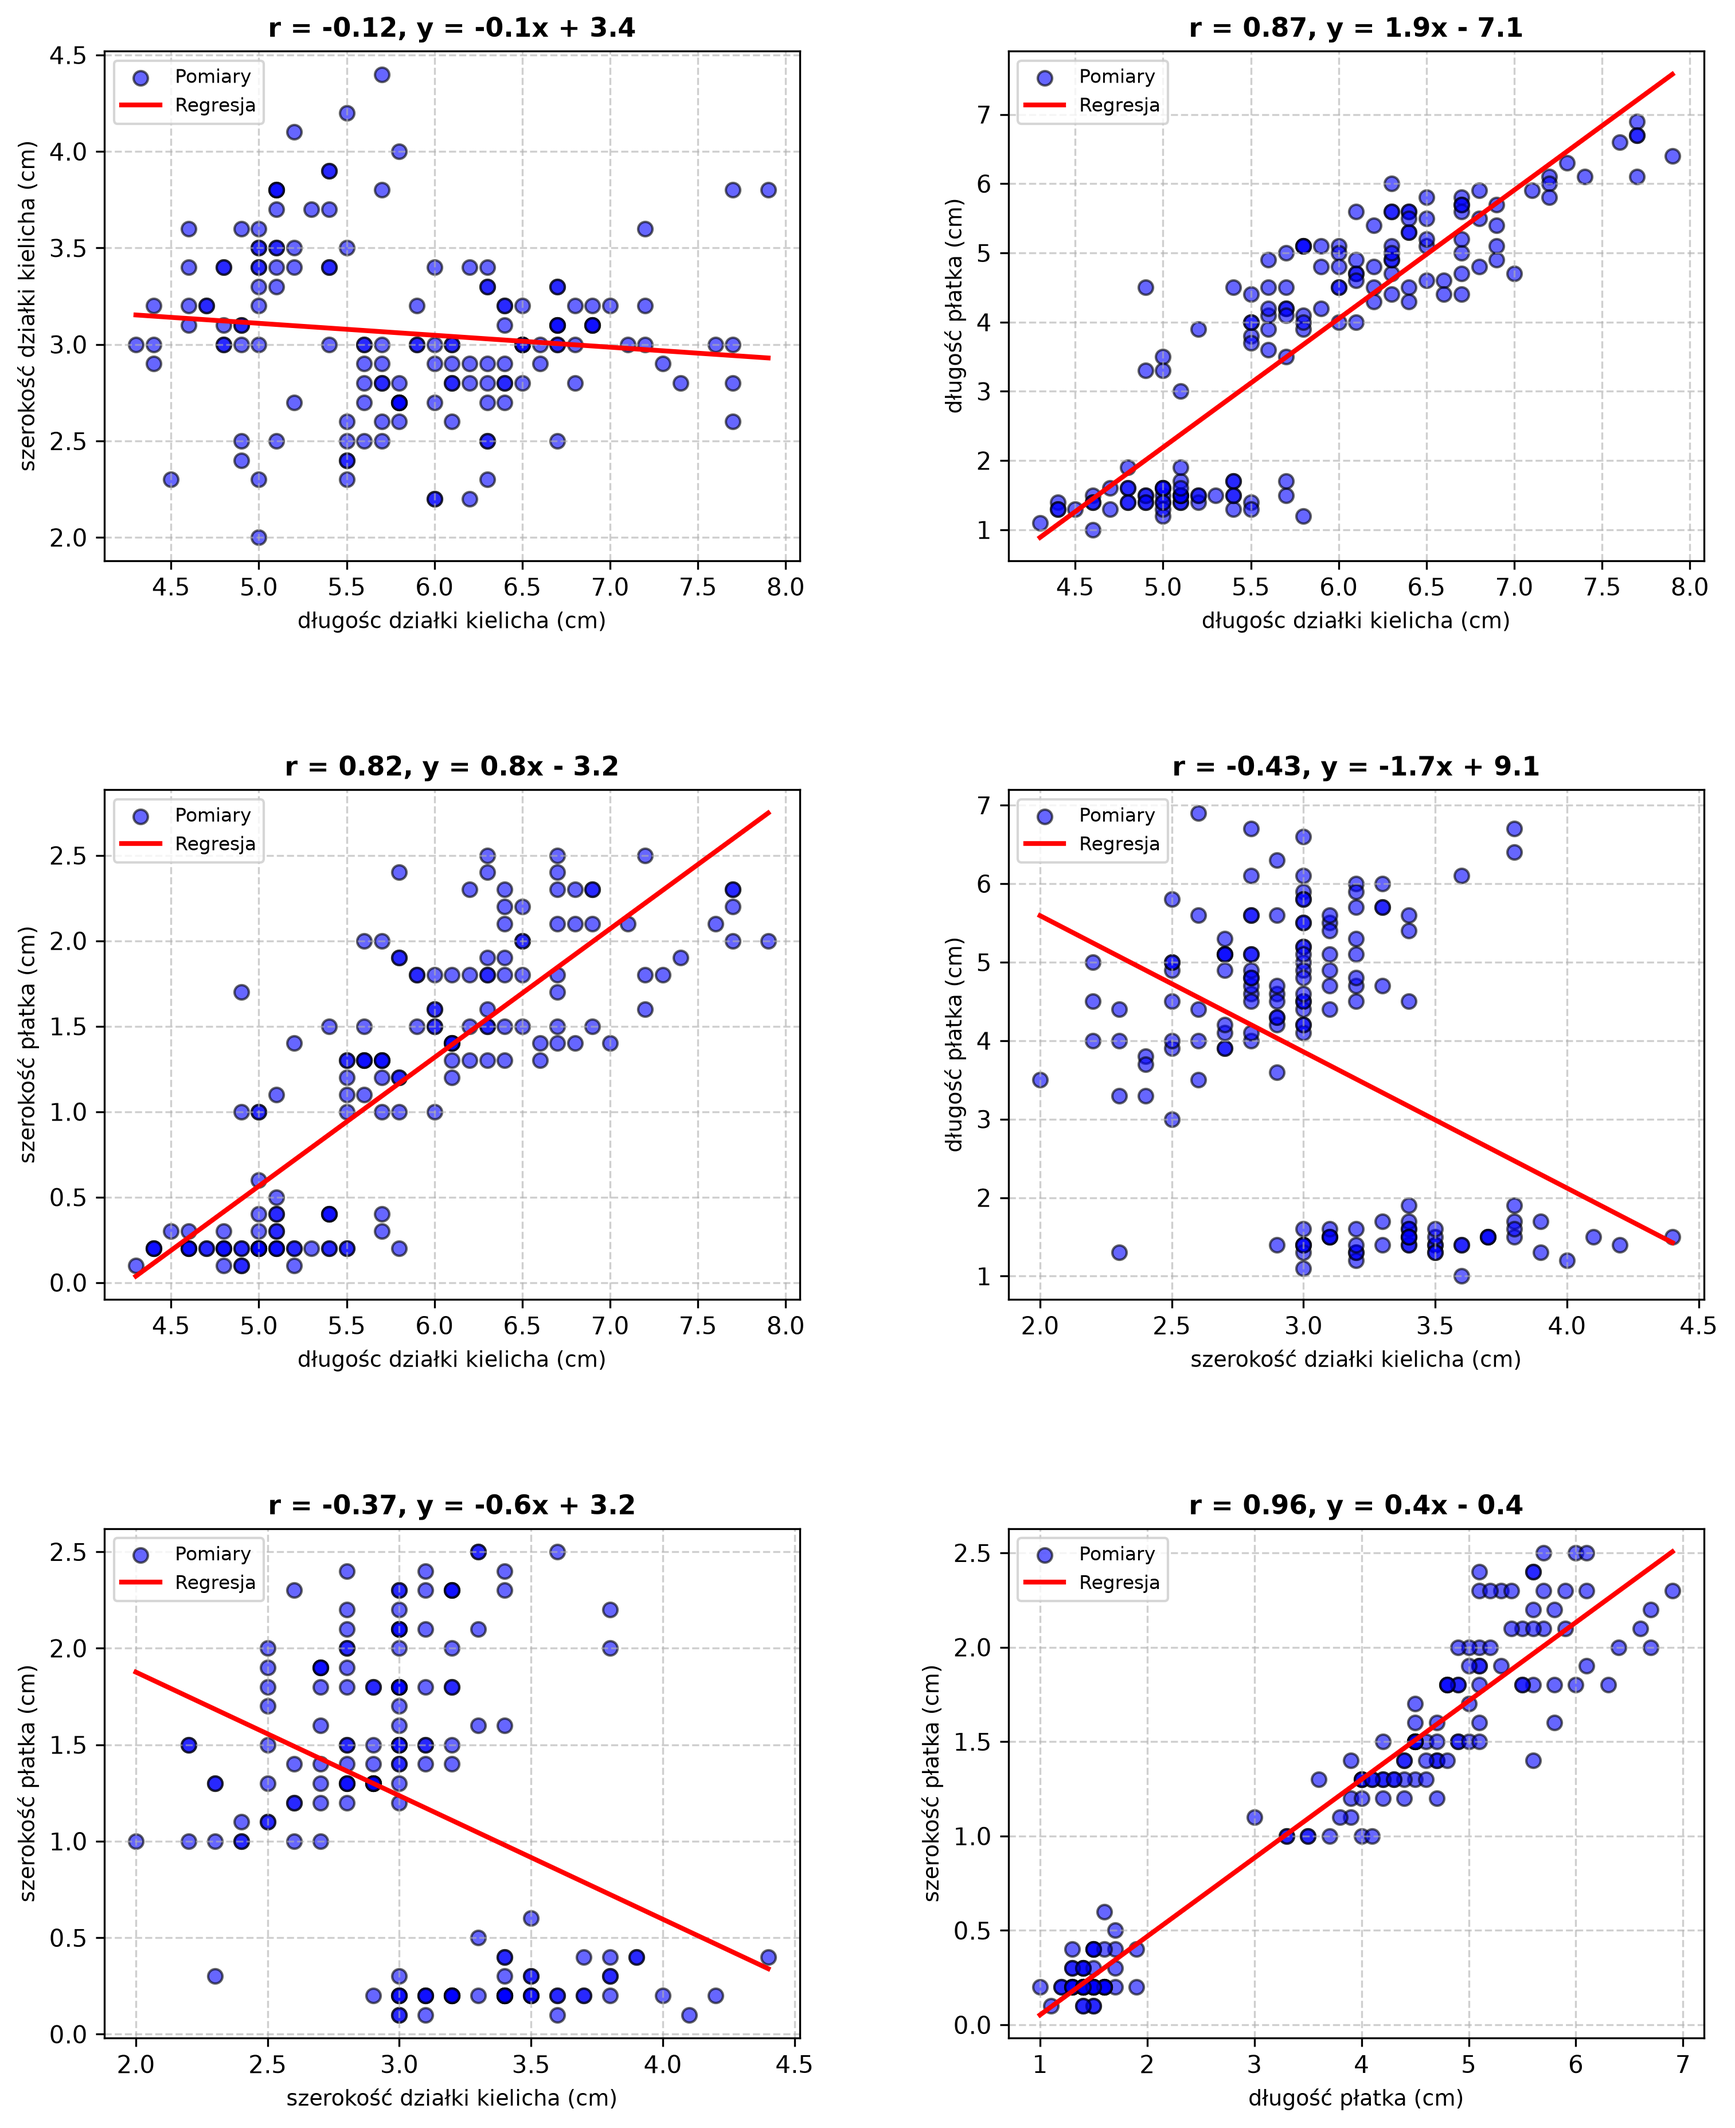
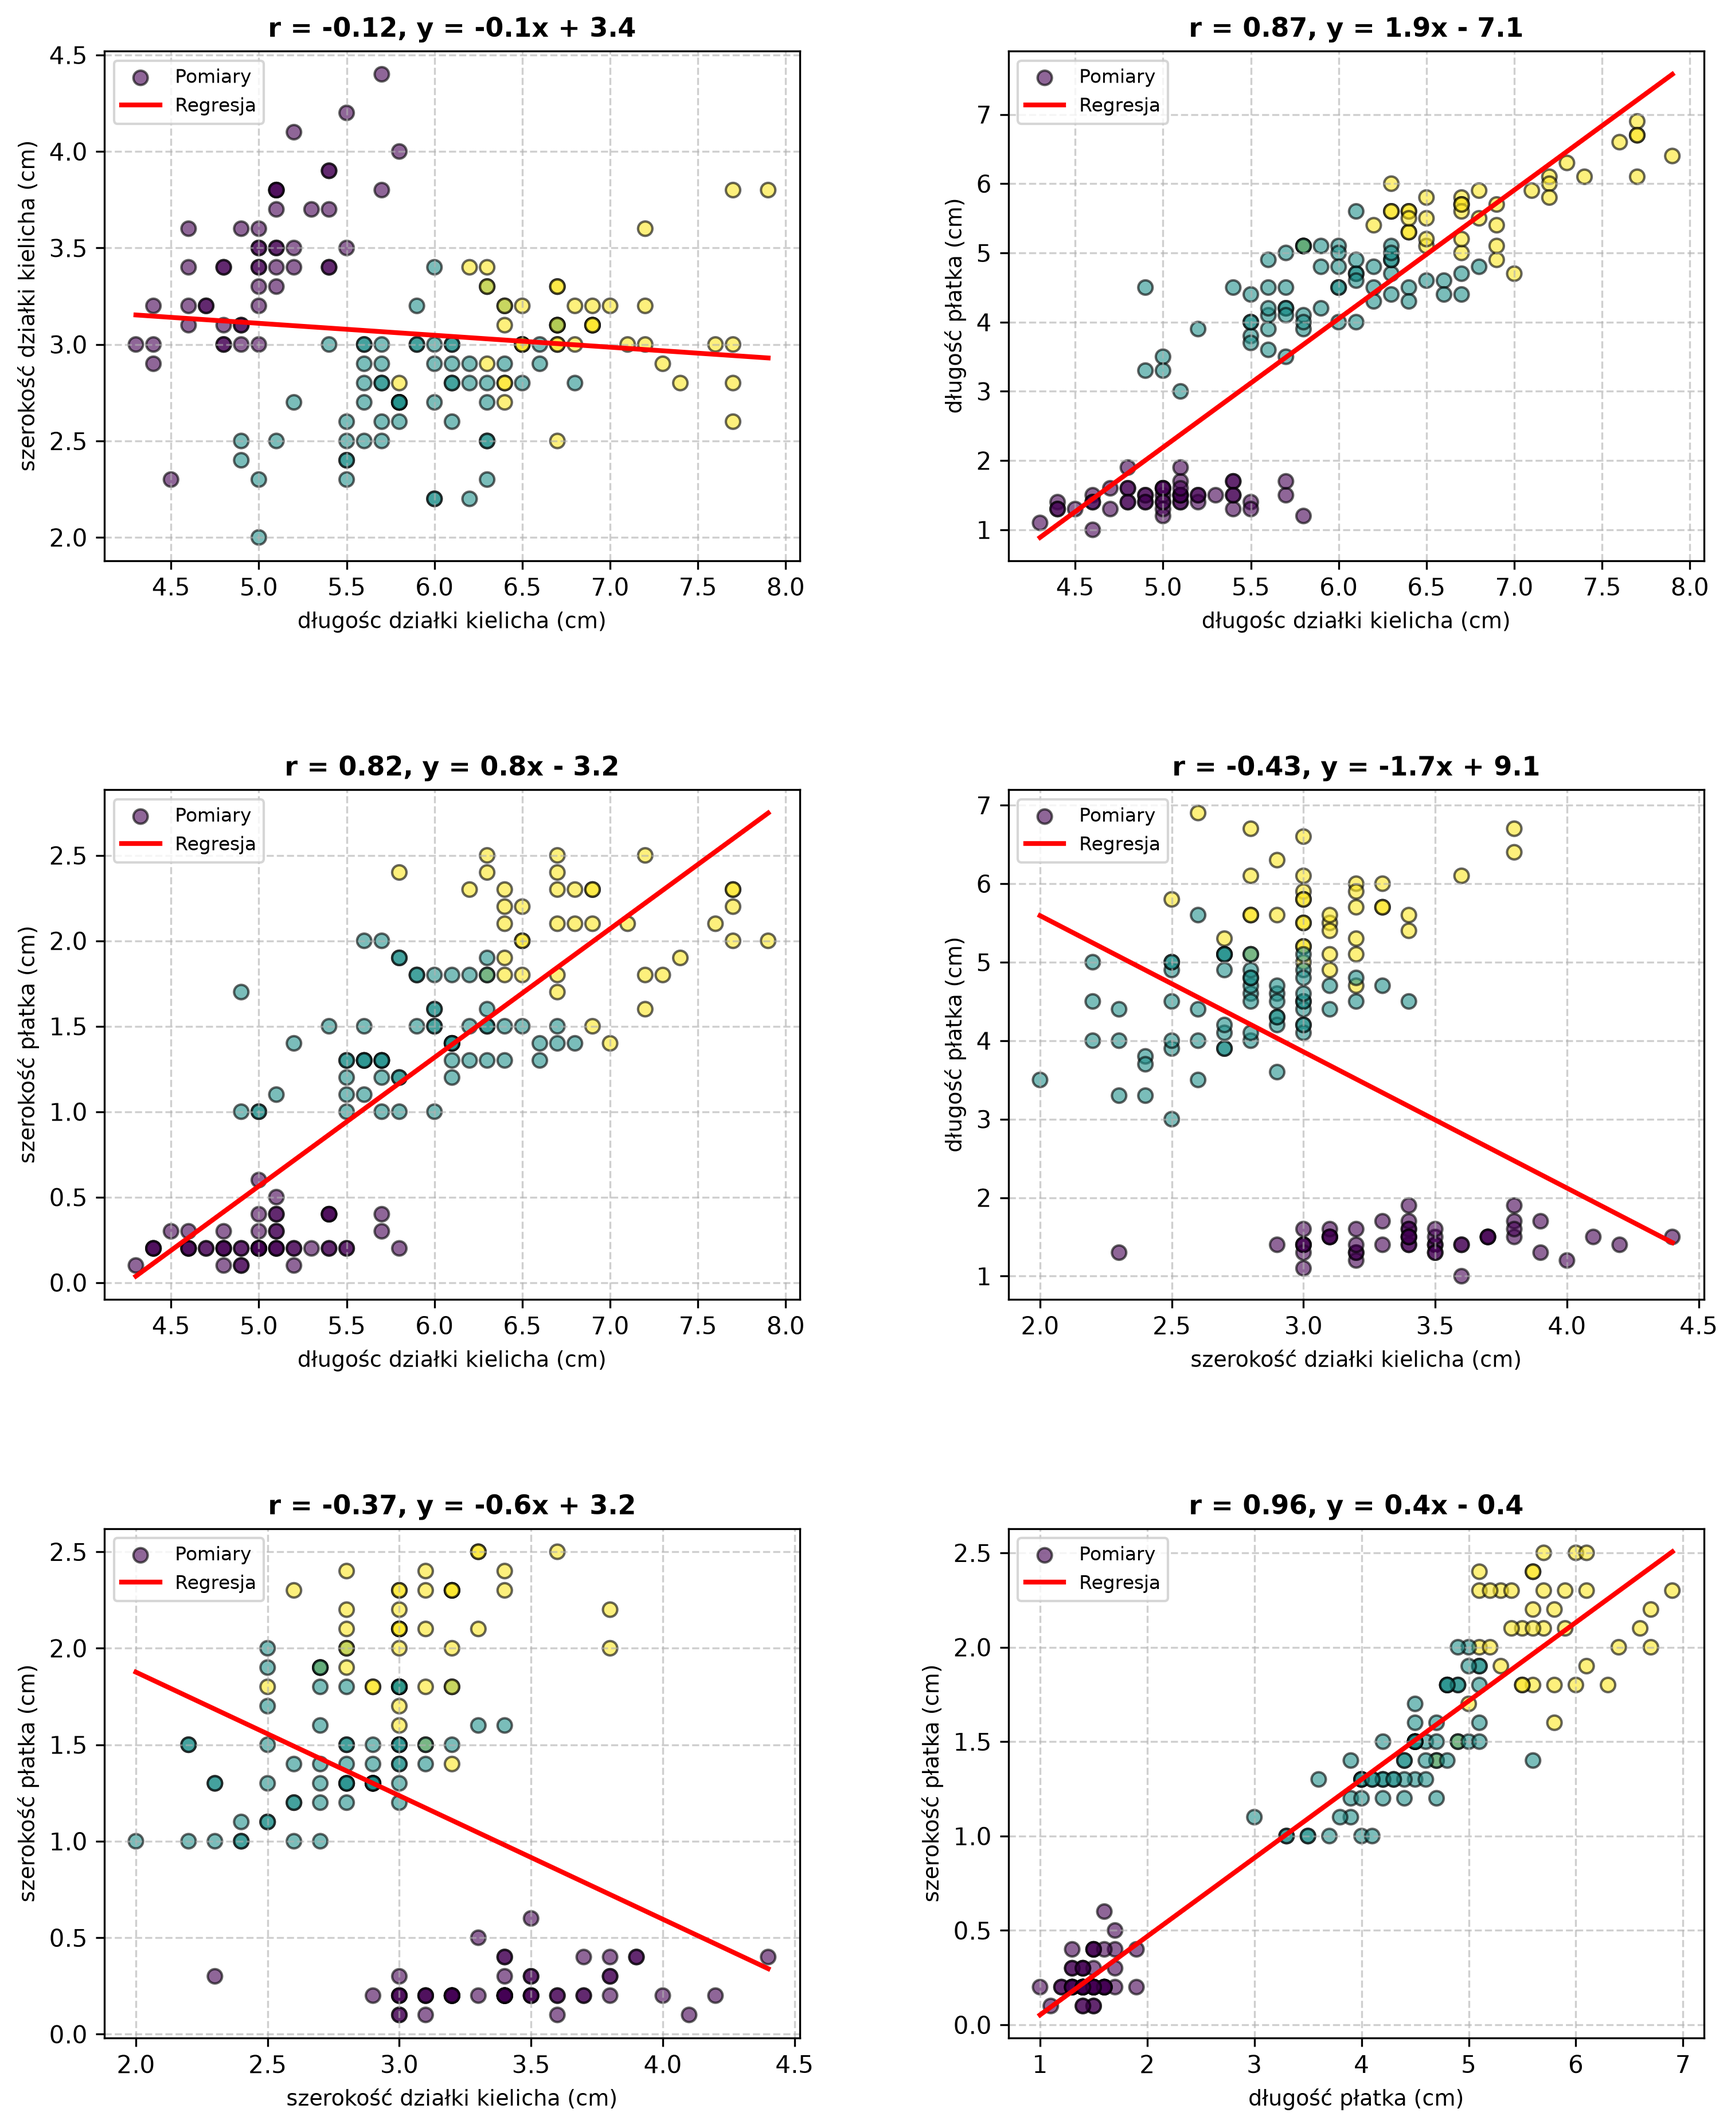
rysowanie wykresów - clusters

diff --git a/zad2.py b/zad2.py
@@ -4,6 +4,11 @@ import pandas as pd
 import itertools
 import math
 
+from sklearn.cluster import KMeans
+from sklearn.preprocessing import MinMaxScaler
+
+
+#funkcje oraz generowanie wykresów takie samo jak w ostatnim zadaniu
 def korelacja_pearsona(x, y):
     n = len(x) #liczba punktów pomiarowych
     sr_x = sum(x) / n
@@ -30,13 +35,19 @@ axes1 = axes1.flatten() #przekształca macierz wykresów w jednowymiarową liste
 plt.subplots_adjust(hspace=0.45, wspace=0.3)
 pary = list(itertools.combinations(kolumny, 2))
 
+kmeans_3 = KMeans(n_clusters=3, random_state=42, n_init=10)
+x = dane.values
+scaler = MinMaxScaler()
+x_scaled = scaler.fit_transform(x)
+labels_3 = kmeans_3.fit_predict(x_scaled)
+
 for idx, (cecha_x, cecha_y) in enumerate(pary):
     ax = axes1[idx]
     x = dane[cecha_x]
     y = dane[cecha_y]
     r = korelacja_pearsona(x, y)
     a, b = regresja_liniowa(x, y)
-    ax.scatter(x, y, color='blue', edgecolors='black', alpha=0.6, label='Pomiary') #rysowanie punktów danych, o przezroczystosci 0.6
+    ax.scatter(x, y, c = labels_3, edgecolors='black', alpha=0.6, label='Pomiary') #rysowanie punktów danych, o przezroczystosci 0.6
     x_min, x_max = min(x), max(x) #skrajne wartości osi x
     ax.plot([x_min, x_max], [a * x_min + b, a * x_max + b], color='red', linewidth=2, label='Regresja') #rysuje prosta regresji
     #poczatek to xmin, koniec to x max, y jest obliczany za pomocą współczynników  z funkcji wyżej
@@ -49,6 +60,8 @@ for idx, (cecha_x, cecha_y) in enumerate(pary):
 
 plt.savefig("wykresy.png", dpi=300, bbox_inches='tight')
 plt.show()
+
+
 
 
 
